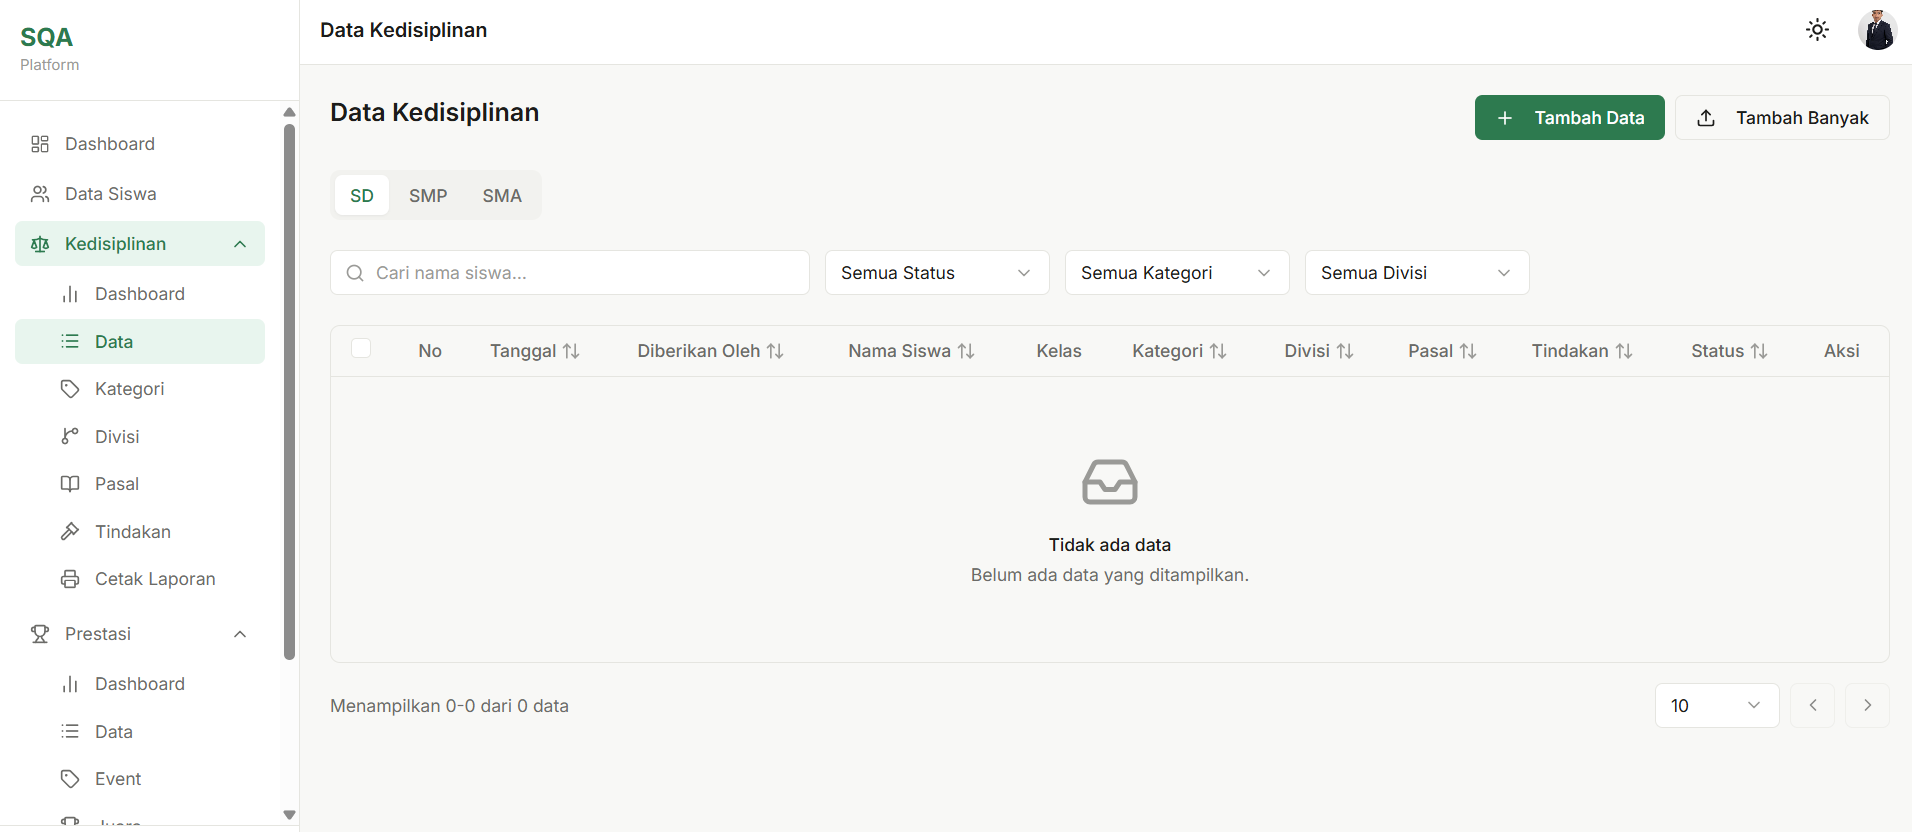
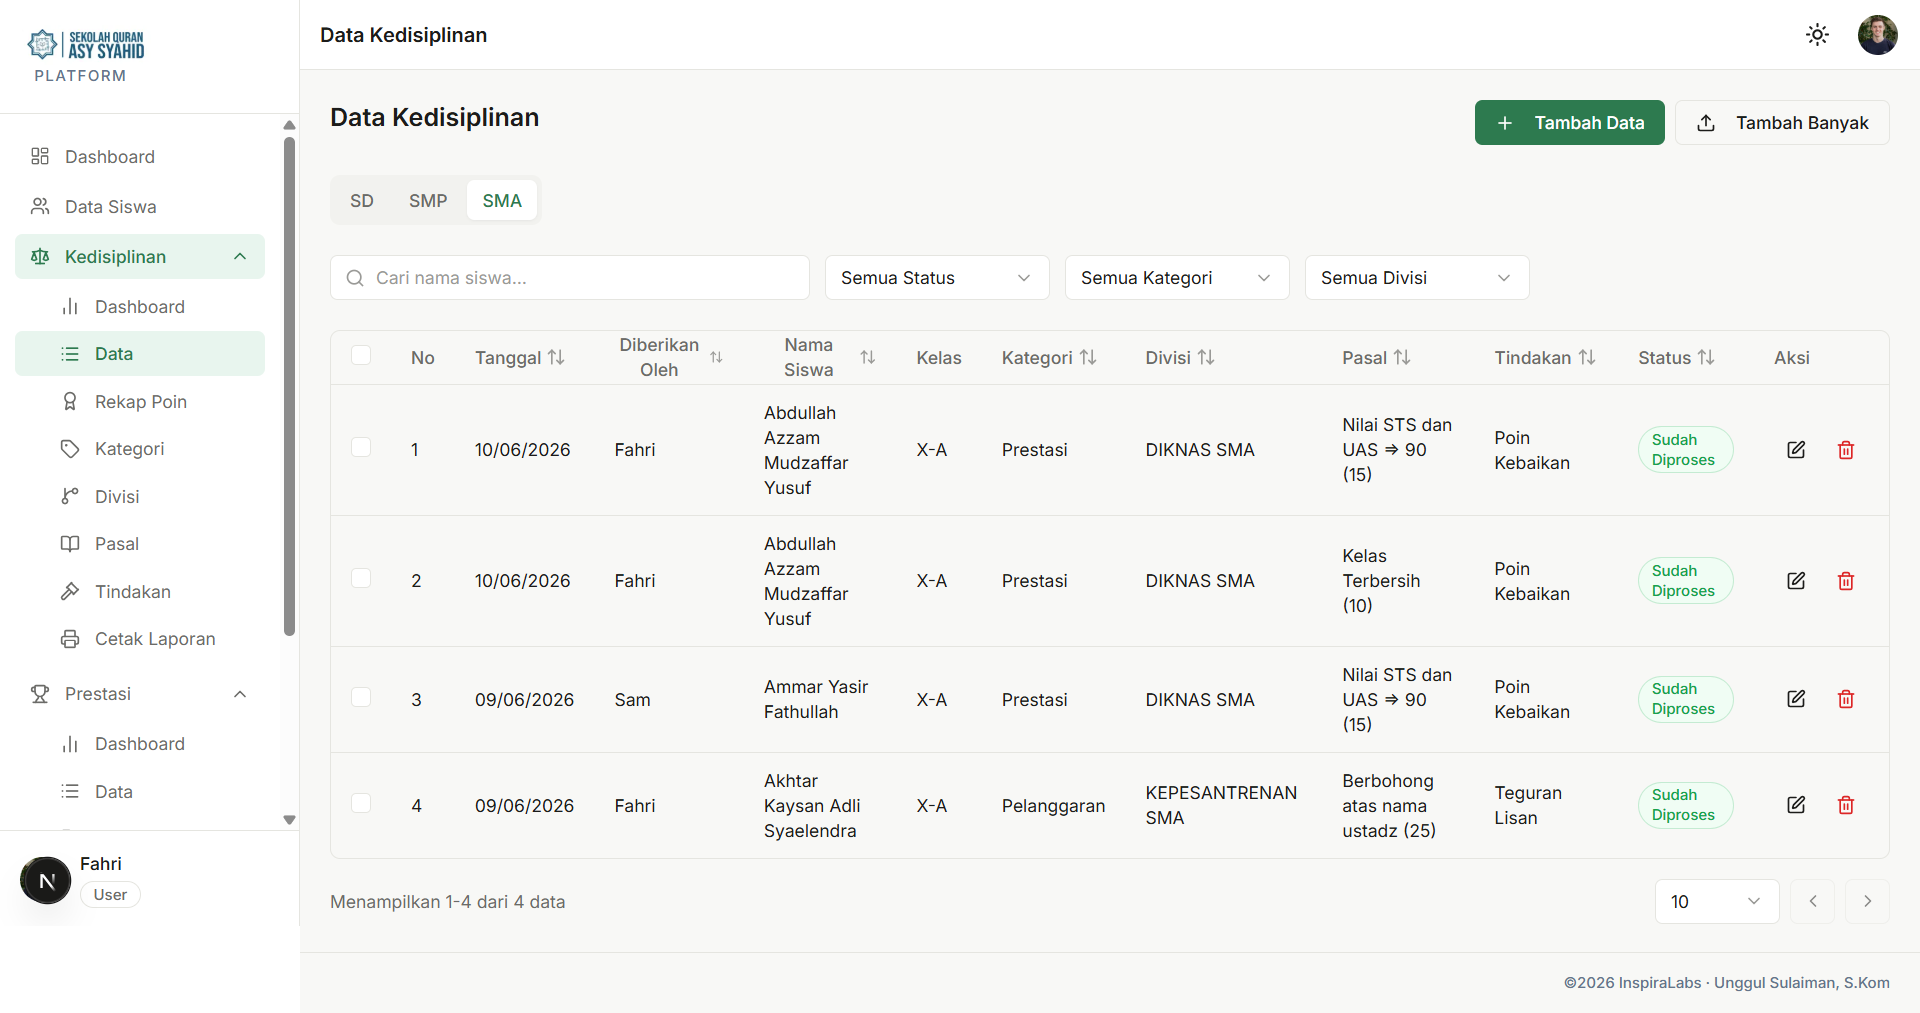
fix landing page+dashboard

diff --git a/src/components/landing/features-section.tsx b/src/components/landing/features-section.tsx
@@ -15,21 +15,21 @@ const features: Feature[] = [
     title: 'Data Siswa',
     description:
       'Simpan dan kelola database siswa SD, SMP, hingga SMA secara terpusat. Dilengkapi fitur import massal sekali klik untuk menghemat waktu Anda',
-    highlights: ['CRUD lengkap', 'Import massal', 'Filter per unit'],
+    highlights: ['CRUD lengkap', 'Import massal', 'Filter Mudah'],
   },
   {
     icon: ShieldAlert,
     title: 'Kedisiplinan',
     description:
       'Rekam setiap poin pelanggaran maupun penghargaan siswa secara digital. Pantau grafik kedisiplinan dan terbitkan laporan instan kapan saja.',
-    highlights: ['Status tracking', 'Filter & laporan', 'Multi kategori'],
+    highlights: ['Status tracking', 'Rekap Poin', 'Multi kategori'],
   },
   {
     icon: Trophy,
     title: 'Prestasi',
     description:
       'Catat dan dokumentasikan pencapaian gemilang siswa mulai tingkat lokal hingga internasional demi reputasi sekolah yang akurat.',
-    highlights: ['8 tingkat kejuaraan', 'Laporan cetak', 'Dashboard analitik'],
+    highlights: ['Filter & Laporan', 'Dashboard Analitik', 'Lengkap'],
   },
 ]
 
@@ -71,7 +71,7 @@ export function FeaturesSection() {
                 <p className="mt-2 text-sm leading-relaxed text-slate-600 dark:text-slate-400">
                   {feature.description}
                 </p>
-                <div className="mt-4 flex flex-wrap gap-2">
+                <div className="mt-4 mb-4 flex flex-wrap gap-2">
                   {feature.highlights.map((highlight) => (
                     <span
                       key={highlight}

diff --git a/src/app/(auth)/login/page.tsx b/src/app/(auth)/login/page.tsx
@@ -101,16 +101,26 @@ export default function LoginPage() {
     <Card className="mx-auto w-full max-w-sm">
       <CardHeader className="text-center">
         <div className="mb-2 flex justify-center">
-          <Image
-            src="/SQA.png"
-            alt="Logo SQA"
-            width={120}
-            height={40}
-            className="h-8 w-auto object-contain"
-            priority
-          />
+        <Link 
+          href="/" 
+          className="transition-opacity hover:opacity-80 block mx-auto w-fit"
+          aria-label="Kembali ke Beranda"
+        >
+            <Image
+              src="/SQA.png"
+              alt="Logo SQA"
+              width={120}
+              height={40}
+              className="h-8 w-auto object-contain"
+              priority
+            />
+          </Link>
         </div>
-        <CardDescription>Masuk ke akun Anda</CardDescription>
+        <CardDescription>
+        <span className="text-sm font-medium tracking-tight text-slate-600 dark:text-slate-800">
+          Masuk ke akun Anda
+        </span>
+        </CardDescription>
       </CardHeader>
       <CardContent>
         <form onSubmit={handleSubmit(onSubmit)} className="space-y-4">

diff --git a/src/components/landing/hero-section.tsx b/src/components/landing/hero-section.tsx
@@ -118,15 +118,15 @@ export function HeroSection() {
           <div className="animate-fade-in-up mt-6 flex flex-wrap items-center justify-center gap-x-8 gap-y-3 text-sm font-medium text-slate-400 [animation-delay:400ms]">
             <div className="flex items-center gap-2">
               <Zap className="h-4 w-4 text-primary" />
-              <span>Lebih Efisien</span>
+              <span className='text-slate-500 dark:text-slate-400'>Lebih Efisien</span>
             </div>
             <div className="flex items-center gap-2">
               <Shield className="h-4 w-4 text-primary" />
-              <span>Data Terjaga</span>
+              <span className='text-slate-500 dark:text-slate-400'>Data Terjaga</span>
             </div>
             <div className="flex items-center gap-2">
               <Clock className="h-4 w-4 text-primary" />
-              <span>Hemat Waktu</span>
+              <span className='text-slate-500 dark:text-slate-400'>Hemat Waktu</span>
             </div>
           </div>
         </div>

diff --git a/src/components/landing/footer.tsx b/src/components/landing/footer.tsx
@@ -12,9 +12,9 @@ export function Footer() {
             height={40}
             className="h-8 w-auto object-contain"
           />
-          <p className="text-xs text-slate-600">
-            Sekolah Quran Asy Syahid
-          </p>
+          <span className="block text-sm font-medium tracking-tight text-slate-500 dark:text-slate-400">
+            NexusEdu - SQA
+          </span>
         </div>
 
         <p className="text-center text-xs text-slate-600 md:text-right">

diff --git a/src/components/layout/sidebar.tsx b/src/components/layout/sidebar.tsx
@@ -519,7 +519,9 @@ function Sidebar() {
             className="h-8 w-auto object-contain"
             priority
           />
-          <p className="mt-1 text-xs text-[var(--text-tertiary)]">Platform</p>
+          <span className="block pr-[110px] text-[12px] font-medium uppercase tracking-widest text-slate-500 text-center dark:text-slate-400">
+            Platform
+          </span>
         </div>
 
         <nav className="flex-1 space-y-1 overflow-y-auto px-3 py-4">
